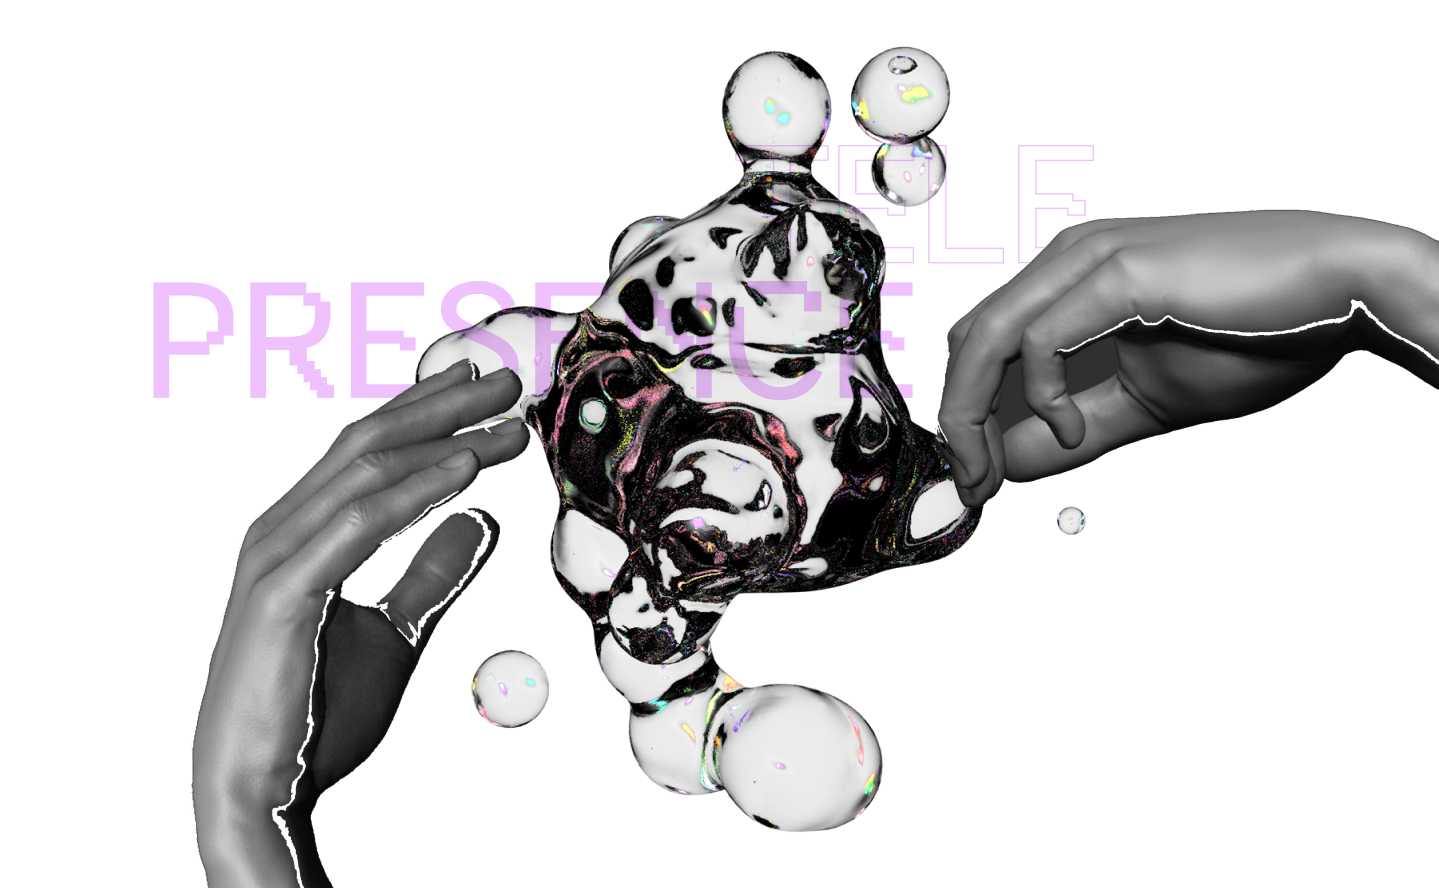
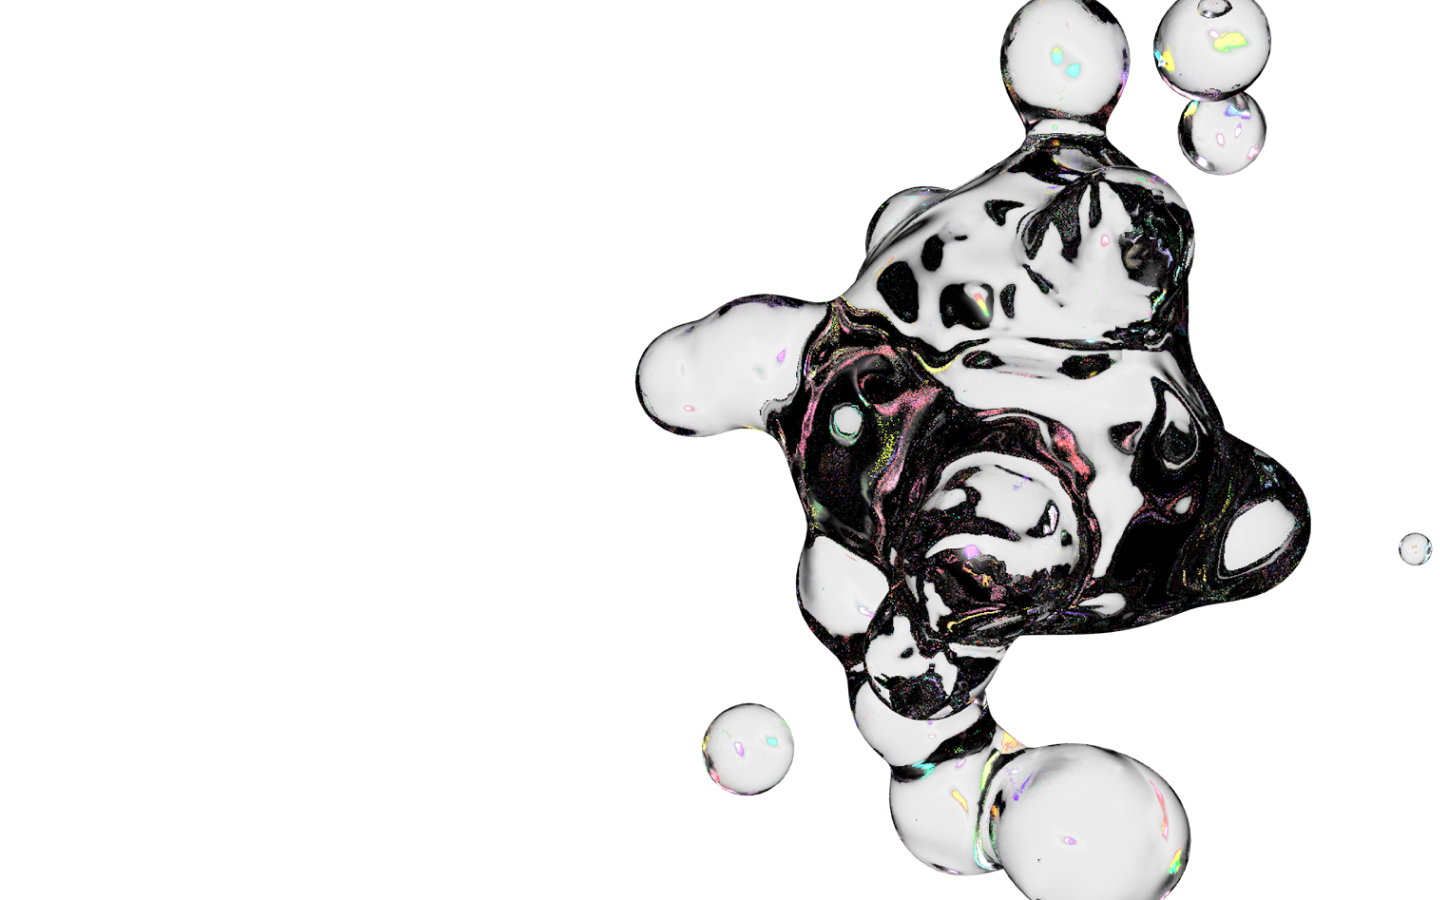
coming soon basic content added + footer refactors

diff --git a/src/styles/pages/_comingsoon.scss b/src/styles/pages/_comingsoon.scss
@@ -1,7 +1,57 @@
 #coming-soon {
+  width: 100%;
+  height: calc(100vh - 3.75rem); //height of the footer
+  padding-left: 3rem;
+  padding-top: 12rem;
   background: $dark;
+  background-image: url("../../assets/coming-soon-hero.png");
+  background-repeat: no-repeat;
+  background-position: right;
+  position: relative;
+  overflow-y: scroll;
 
-  img {
-    width: 100%;
+  h1 {
+    //adaptations from type system h1
+    margin: 0;
+    font-size: 3rem;
+    text-shadow: none; //remove stroke
+    -webkit-text-stroke: none; //remove stroke
+  }
+
+  h3 {
+    //adaptations from type system h3
+    @include h3($light);
+    &:hover {
+      color: $light; //prevent color change on hover
+    }
+    margin: 1rem 0;
+  }
+
+  p {
+    @include caption-med($light);
+    max-width: 22.5rem;
+  }
+
+  #social-media-links {
+    margin: 3.75rem 0 3rem;
+    a {
+      @include caption-med($light);
+      @include hover-blur;
+      margin-right: 30px;
+
+      &:hover {
+        color: $secondary;
+      }
+    }
+  }
+
+  #tagline {
+    @include poster($secondary);
+    color: transparent;
+    font-size: 9rem;
+    max-width: 700px;
+    position: absolute;
+    right: 0;
+    bottom: 2rem;
   }
 }

diff --git a/src/components/Footer.js b/src/components/Footer.js
@@ -1,17 +1,21 @@
 import React from 'react'
 import ParsonsLogo from '../assets/parsons-logo.svg'
 
-function Footer({ parent }) {
+function Footer({ reduced }) {
+  console.log(reduced);
   return (
-    <footer className={parent ? "menu-footer" : ""}>
-      <div id="social-media-logos">
-        <a href="#" target="_blank" rel="noopener noreferrer">
-          instagram
+    <footer>
+      {
+        reduced &&
+        <div id="social-media-links">
+          <a href="#" target="_blank" rel="noopener noreferrer">
+            instagram
         </a>
-        <a href="#" target="_blank" rel="noopener noreferrer">
-          twitter
+          <a href="#" target="_blank" rel="noopener noreferrer">
+            twitter
         </a>
-      </div>
+        </div>
+      }
       <a href="https://www.newschool.edu/parsons/" target="_blank" rel="noopener noreferrer">
         <img src={ParsonsLogo} alt="Parsons School of Design Logo" />
       </a>

diff --git a/src/pages/ComingSoon.js b/src/pages/ComingSoon.js
@@ -18,7 +18,18 @@ function ComingSoon() {
 
   return (
     <div id="coming-soon">
-      <img src={heroImage} alt="placeholder text" />
+      <h1>TELEPRESENCE</h1>
+      <h3>JUNE 11 — 14</h3>
+      <p>Join us to celebrate our first year MFA Design and Technology virtual show lorem ipsum dolor sit amet consectetur adipiscing elit</p>
+      <div id="social-media-links">
+        <a href="#" target="_blank" rel="noopener noreferrer">
+          instagram
+        </a>
+        <a href="#" target="_blank" rel="noopener noreferrer">
+          twitter
+        </a>
+        <div id="tagline">A CYBER EXPO</div>
+      </div>
     </div>
   )
 }

diff --git a/src/styles/components/_footer.scss b/src/styles/components/_footer.scss
@@ -10,7 +10,7 @@ footer {
     @include hover-blur;
   }
 
-  #social-media-logos {
+  #social-media-links {
     width: 60vw;
     margin: 0 auto;
     @include caption-med($light);
@@ -43,7 +43,7 @@ footer {
       align-self: center;
     }
 
-    #social-media-logos {
+    #social-media-links {
       width: auto;
       margin: 0;
       align-self: center;

diff --git a/src/App.js b/src/App.js
@@ -47,7 +47,7 @@ function App(props) {
             <Route path="/events" exact component={Events} />
             <Route path="/about" exact component={About} />
           </Switch>
-          { state.headerOpen && <Footer /> }
+          <Footer reduced={state.headerOpen} />
         </Router>
       </Context.Provider>
     </div>

diff --git a/src/styles/main.scss b/src/styles/main.scss
@@ -11,13 +11,14 @@
 /*** BASE STYLES ***/
 @import './base-styles';
 
-/*** LAYOUTS ***/
-@import './pages/comingsoon';
-
 /*** COMPONENT STYLES ***/
 @import './components/header';
 @import './components/mobile-nav';
 @import './components/footer';
+
+/*** LAYOUTS ***/
+@import './pages/comingsoon';
+
 
 
 //GALLERY

diff --git a/src/styles/mixins/_typography.scss b/src/styles/mixins/_typography.scss
@@ -7,12 +7,7 @@
   text-align: right;
   
   /*** added text stroke ***/
-  -webkit-text-stroke: 1px $color;
-  text-shadow:
-  -1px -1px 0 $color,  
-   1px -1px 0 $color,  
-   -1px 1px 0 $color,
-    1px 1px 0 $color;
+  -webkit-text-stroke: 2px $color;
 }
 
 @mixin logo($color: $secondary) {

diff --git a/src/styles/_base-styles.scss b/src/styles/_base-styles.scss
@@ -10,9 +10,32 @@ body {
   width: 100%;
   height: 200vh;
 
-  h1 {
-    @include h2;
-  }
+
+}
+
+h1 {
+  margin: 0;
+  @include h1;
+}
+
+h2 {
+  @include h2;
+}
+
+h3 {
+  @include h3;
+}
+
+h4 {
+  @include h4;
+}
+
+h5 {
+  @include h5;
+}
+
+h6 {
+  @include h6;
 }
 
 
